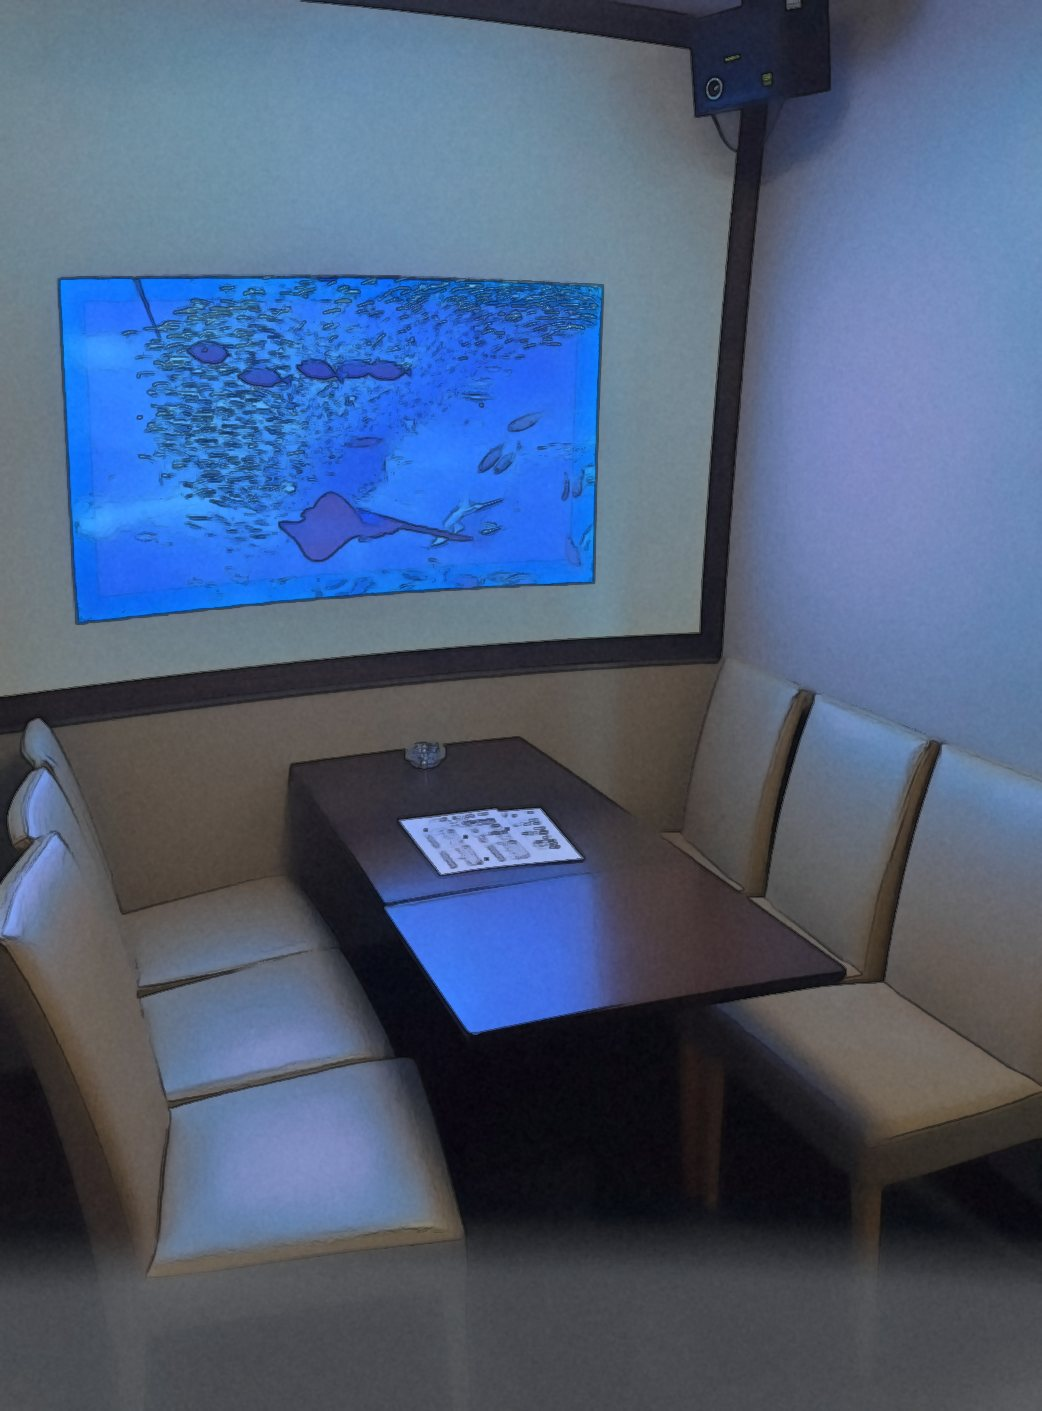
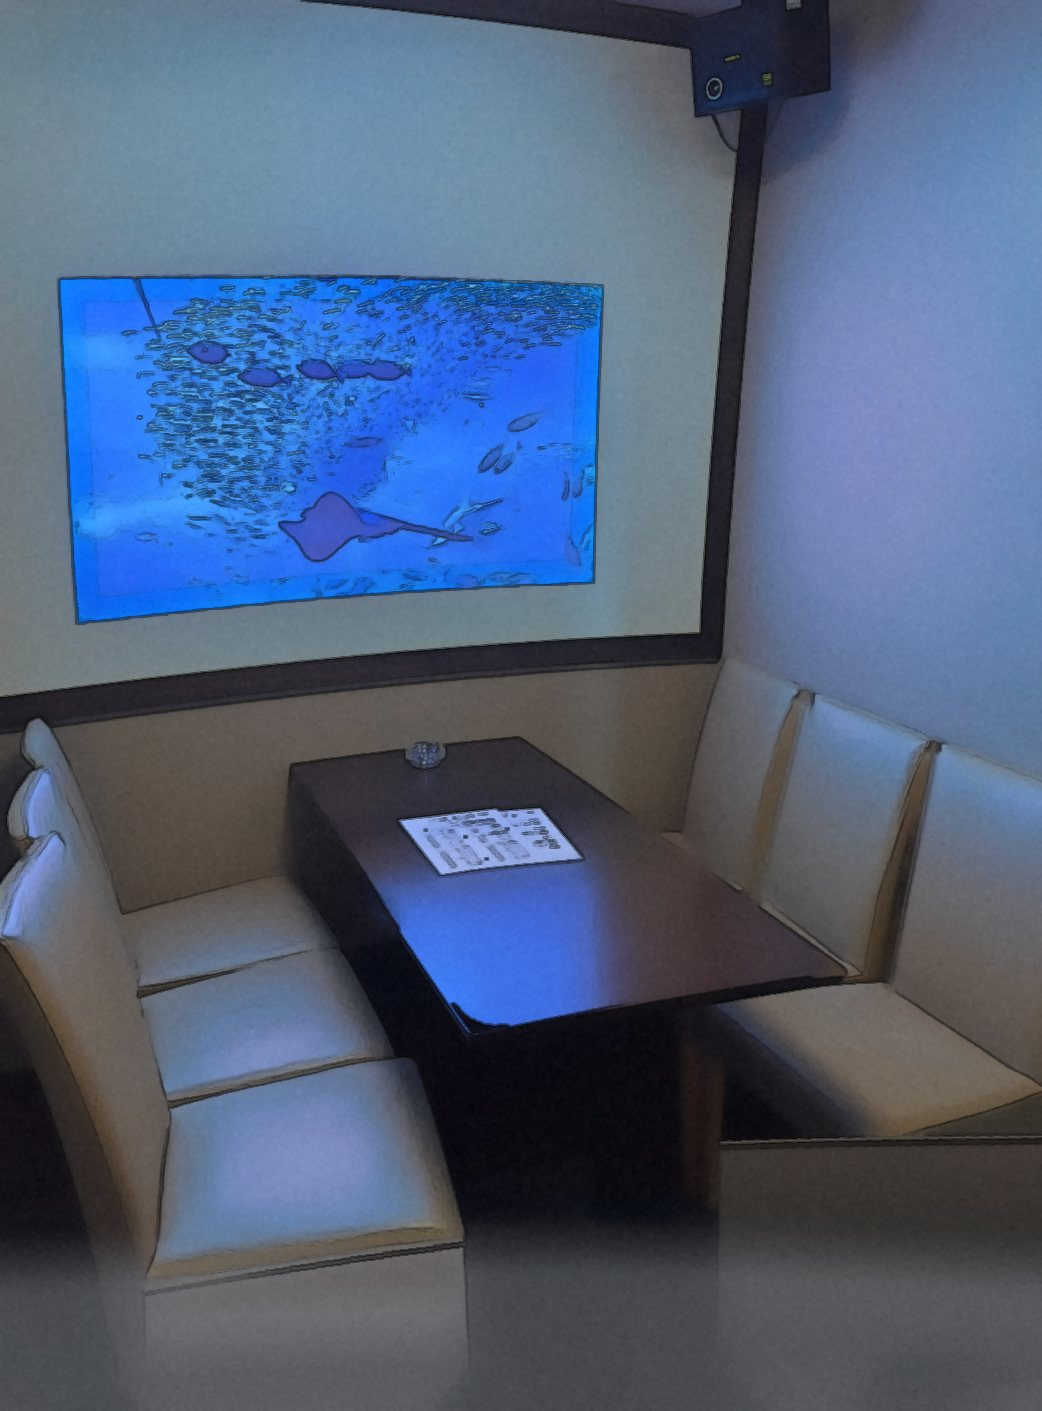
店舗の詳細住所を非掲載に、写真の棚・ソファ・テーブルを編集
Claude-Session: https://claude.ai/code/session_01YReYCQNiBFrJTdhhvK3aMu

diff --git a/index.html b/index.html
@@ -305,7 +305,7 @@ footer a{color:var(--cream)}
     <div>
       <h2 class="sec-title" id="access-title">お店の場所</h2>
       <dl>
-        <div><dt>住所</dt><dd>札幌市中央区南4条西5丁目8-1<br>F-45ビル4階</dd></div>
+        <div><dt>場所</dt><dd>すすきのエリア<br><small style="color:var(--mute)">詳しい場所は、見学のご予約時にご案内します（要相談）</small></dd></div>
         <div><dt>アクセス</dt><dd>地下鉄すすきの駅から徒歩2分</dd></div>
         <div><dt>運営</dt><dd><a href="https://finlandinc.jp/">株式会社FINLAND</a></dd></div>
       </dl>
